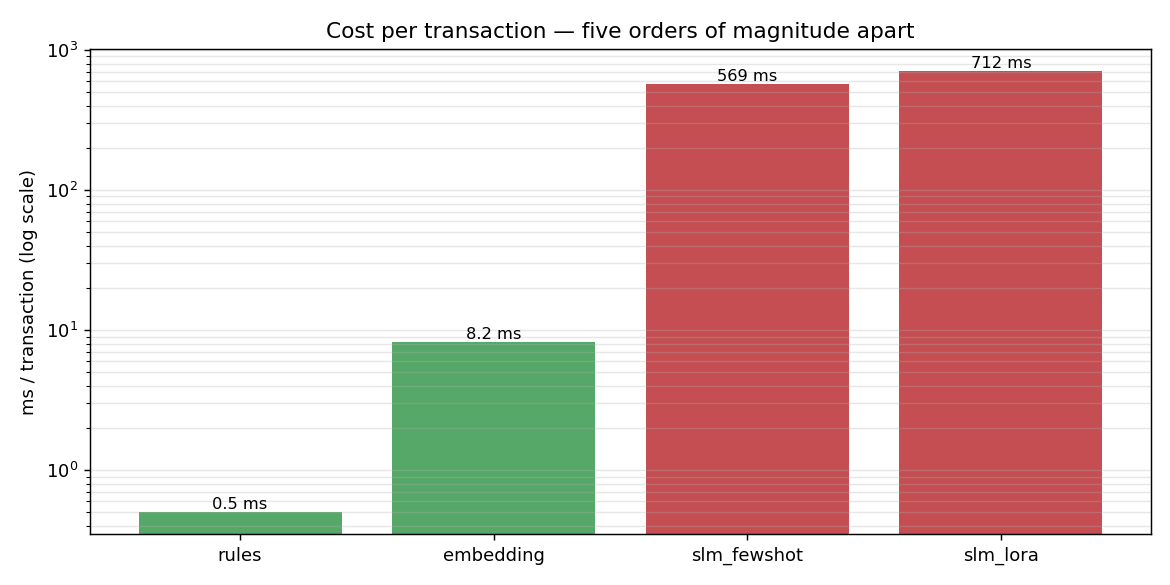
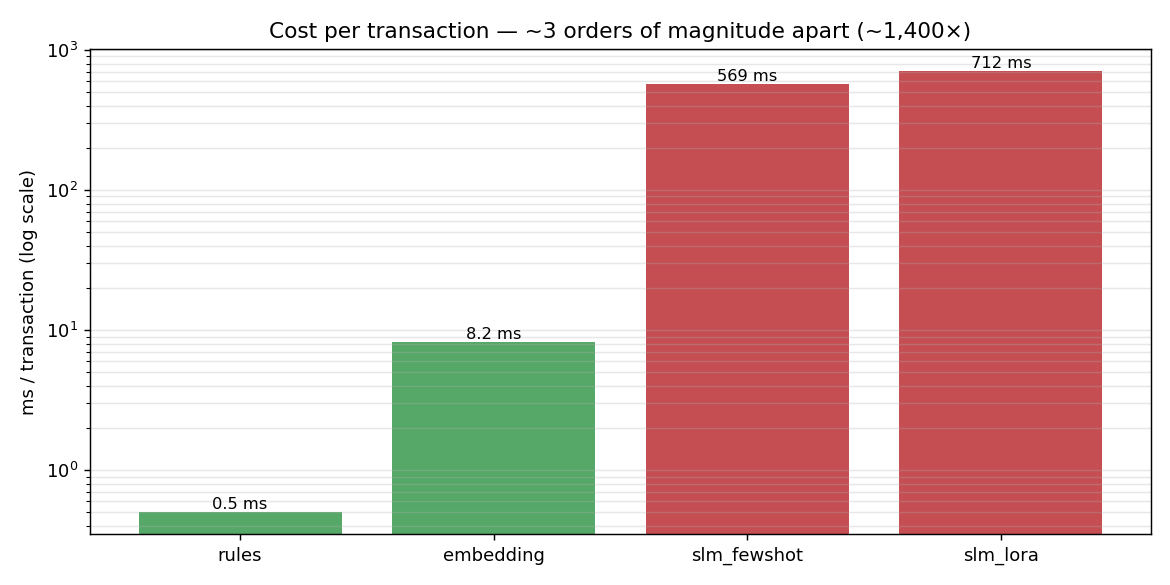
fix(figures): correct cost-magnitude title and table row layout
latency.png title claimed a five-orders-of-magnitude cost spread; actual
spread is ~1,400x (~3 orders, rules 0.5ms to slm_lora 712ms). Fix the
baked-in title and regenerate. Also give multi-line table cells
height proportional to line count so table_engines.png no longer clips
the two-line merchant-normalization descriptions.

Changed region(s): [[0.2154, 0.0308, 0.8308, 0.0923]]

diff --git a/scripts/make_figures.py b/scripts/make_figures.py
@@ -57,7 +57,7 @@ def fig_latency():
                 ha="center", va="bottom", fontsize=9)
     ax.set_yscale("log")
     ax.set_ylabel("ms / transaction (log scale)")
-    ax.set_title("Cost per transaction — five orders of magnitude apart")
+    ax.set_title("Cost per transaction — ~3 orders of magnitude apart (~1,400×)")
     ax.grid(axis="y", alpha=0.3, which="both")
     fig.tight_layout()
     fig.savefig(OUT / "latency.png", dpi=130)
@@ -110,8 +110,17 @@ def _table(headers, rows, title, fname, col_widths, heat_cols=(), figsize=(11, 3
     tbl.set_fontsize(11)
     tbl.scale(1, 1.6)
     n_cols = len(headers)
+    # rows with multi-line cell text need extra height so they don't overlap
+    # the row below them.
+    row_lines = {0: 1}
+    for ridx, row in enumerate(rows, start=1):
+        row_lines[ridx] = max(str(cell_text).count("\n") + 1 for cell_text in row)
+    base_height = next(iter(tbl.get_celld().values())).get_height()
     for (r, c), cell in tbl.get_celld().items():
         cell.set_edgecolor("#DDDDDD")
+        lines = row_lines.get(r, 1)
+        if lines > 1:
+            cell.set_height(base_height * (lines * 0.65 + 0.35))
         if r == 0:
             cell.set_facecolor("#34495E")
             cell.set_text_props(color="white", fontweight="bold")
@@ -143,7 +152,7 @@ def fig_engines_table():
         ["slm_lora", "Qwen2.5-3B LoRA fine-tuned (MLX)", "the LLM", "~710 ms"],
     ]
     _table(headers, rows, "Four standardization engines", "table_engines.png",
-           col_widths=[0.16, 0.42, 0.27, 0.15], figsize=(11, 3.2))
+           col_widths=[0.16, 0.42, 0.27, 0.15], figsize=(11, 3.6))
 
 
 def fig_results_table():
